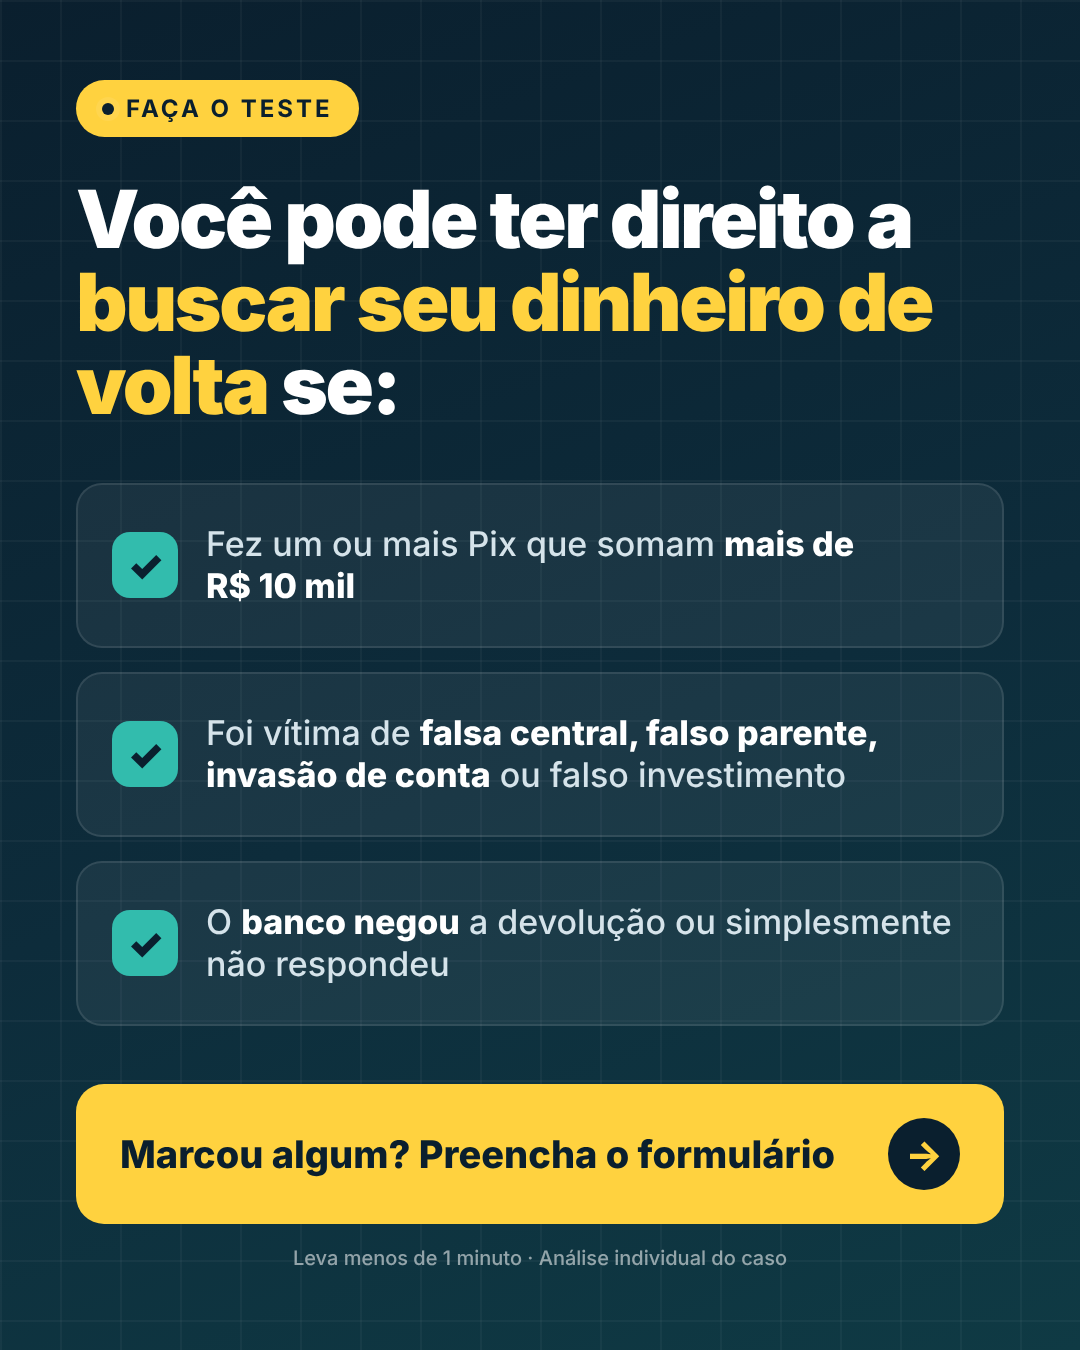
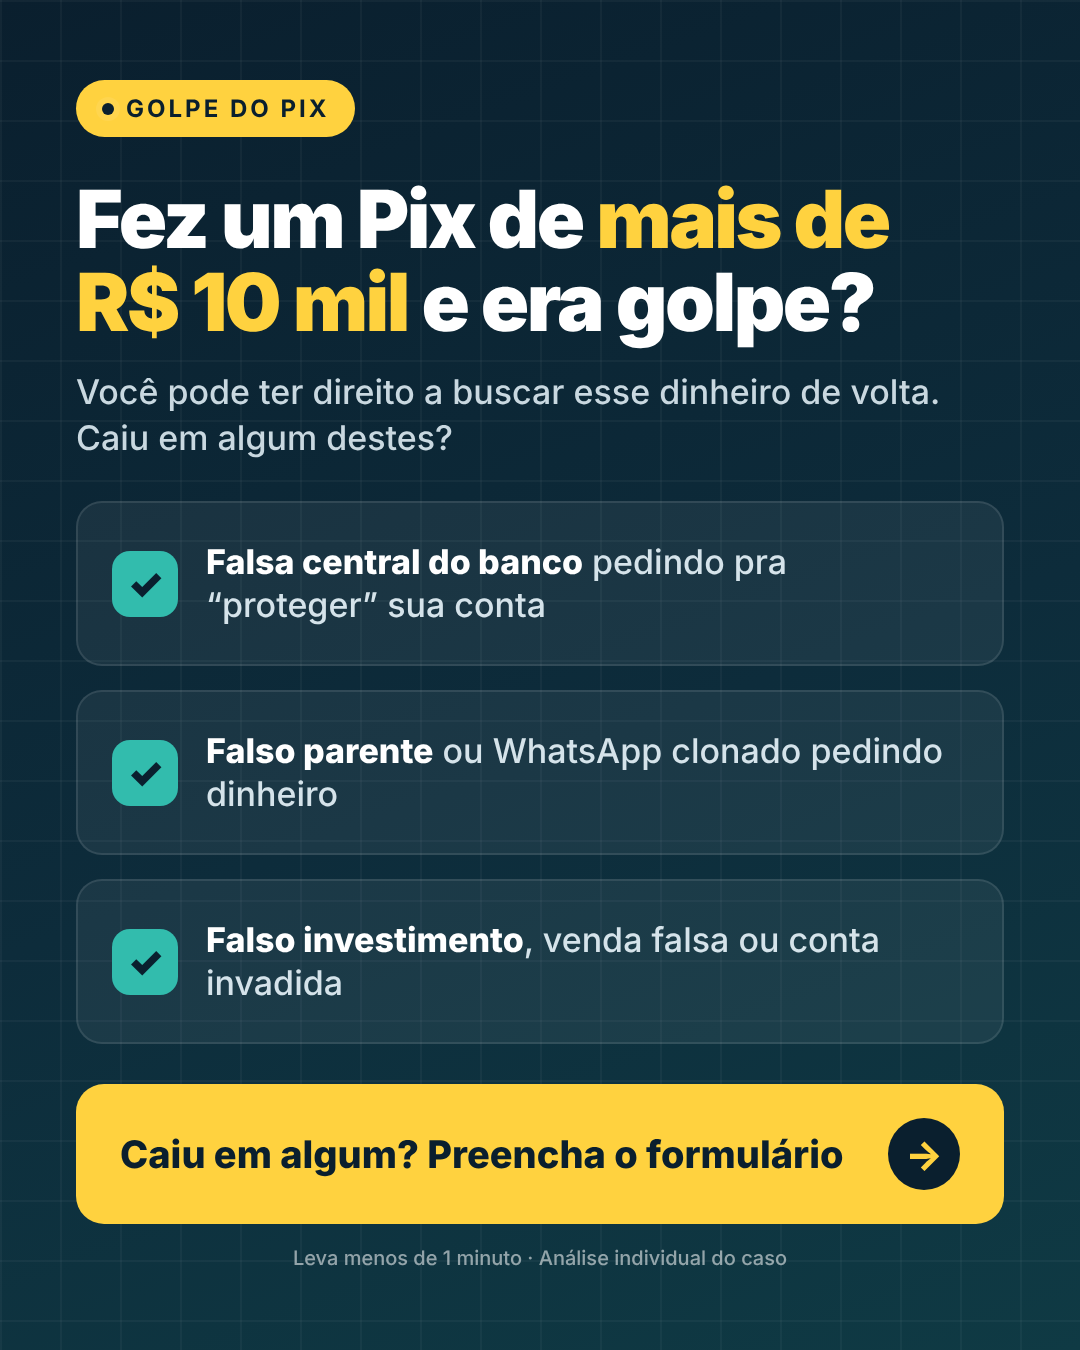
Make all static ad headlines lead with Pix scam over R$ 10k
Claude-Session: https://claude.ai/code/session_01SkfjsfUQNfivQ8njYtiKhj

diff --git a/estaticos-golpe-pix/src/3.html b/estaticos-golpe-pix/src/3.html
@@ -4,7 +4,7 @@ body{background:linear-gradient(160deg,#0a1f2e 0%,#0d2c3b 55%,#0f3a44 100%);colo
 .tag{background:#ffd23f;color:#0a1f2e}
 h1{font-size:80px;line-height:1.04;font-weight:900;letter-spacing:-2.5px;margin-top:40px}
 h1 em{font-style:normal;color:#ffd23f}
-.list{margin-top:56px;display:flex;flex-direction:column;gap:24px}
+.list{margin-top:40px;display:flex;flex-direction:column;gap:24px}
 .it{display:flex;gap:28px;align-items:center;background:rgba(255,255,255,.06);border:2px solid rgba(255,255,255,.1);border-radius:26px;padding:38px 34px}
 .ck{flex:none;width:66px;height:66px;border-radius:18px;background:#32bcad;color:#0a1f2e;display:grid;place-items:center;font-size:40px;font-weight:900}
 .it p{font-size:34px;line-height:1.25;font-weight:500;color:#d5e3ea}
@@ -12,16 +12,17 @@ h1 em{font-style:normal;color:#ffd23f}
 .bottom{margin-top:auto}
 .cta{background:#ffd23f;color:#0a1f2e}
 .cta .arrow{background:#0a1f2e;color:#ffd23f}
-</style></head><body><div class="grid"></div><div class="wrap">
- <div class="tag"><span class="dot"></span>Faça o teste</div>
- <h1>Você pode ter direito a <em>buscar seu dinheiro de volta</em> se:</h1>
+.sub{font-size:34px;line-height:1.35;color:#c9d8e0;margin-top:26px;font-weight:500}</style></head><body><div class="grid"></div><div class="wrap">
+ <div class="tag"><span class="dot"></span>Golpe do Pix</div>
+ <h1>Fez um Pix de <em>mais de R$&nbsp;10&nbsp;mil</em> e era golpe?</h1>
+ <p class="sub">Você pode ter direito a buscar esse dinheiro de volta. Caiu em algum destes?</p>
  <div class="list">
-  <div class="it"><div class="ck">✓</div><p>Fez um ou mais Pix que somam <b>mais de R$&nbsp;10&nbsp;mil</b></p></div>
-  <div class="it"><div class="ck">✓</div><p>Foi vítima de <b>falsa central, falso parente, invasão de conta</b> ou falso investimento</p></div>
-  <div class="it"><div class="ck">✓</div><p>O <b>banco negou</b> a devolução ou simplesmente não respondeu</p></div>
+  <div class="it"><div class="ck">✓</div><p><b>Falsa central do banco</b> pedindo pra “proteger” sua conta</p></div>
+  <div class="it"><div class="ck">✓</div><p><b>Falso parente</b> ou WhatsApp clonado pedindo dinheiro</p></div>
+  <div class="it"><div class="ck">✓</div><p><b>Falso investimento</b>, venda falsa ou conta invadida</p></div>
  </div>
  <div class="bottom">
-  <div class="cta">Marcou algum? Preencha o formulário<span class="arrow">→</span></div>
+  <div class="cta">Caiu em algum? Preencha o formulário<span class="arrow">→</span></div>
   <div class="foot">Leva menos de 1 minuto · Análise individual do caso</div>
  </div>
 </div></body></html>

diff --git a/estaticos-golpe-pix/src/2.html b/estaticos-golpe-pix/src/2.html
@@ -18,13 +18,13 @@ h1 u{text-decoration:none;background:linear-gradient(transparent 62%,#ffd23f 62%
 .cta .arrow{background:#32bcad;color:#0b1a24}
 .foot{color:#0b1a24}
 </style></head><body><div class="wrap">
- <div class="tag"><span class="dot" style="background:#32bcad"></span>Golpe do Pix acima de R$ 10 mil</div>
- <h1>O banco disse que <u>"não pode fazer nada"</u>?</h1>
+ <div class="tag"><span class="dot" style="background:#32bcad"></span>Golpe do Pix</div>
+ <h1>Caiu em um <u style="white-space:nowrap">golpe do Pix</u> de mais de R$&nbsp;10&nbsp;mil?</h1>
  <div class="chat">
   <div class="b me"><span class="who">Você</span>Caí num golpe, fiz um Pix de R$ 22 mil. Preciso de ajuda!</div>
   <div class="b bank no"><span class="who">Banco</span><b>Infelizmente</b> a transação foi autorizada por você. Não há o que fazer.</div>
  </div>
- <div class="turn"><div class="bar"></div><p>Essa resposta <span>não é a palavra final.</span> A lei pode estar do seu lado.</p></div>
+ <div class="turn"><div class="bar"></div><p>O banco negou? <span>Você ainda pode buscar seu dinheiro de volta.</span></p></div>
  <div class="cta">Preencha o formulário<span class="arrow">→</span></div>
  <div class="foot">Leva menos de 1 minuto · Um especialista analisa seu caso</div>
 </div></body></html>

diff --git a/estaticos-golpe-pix/src/4.html b/estaticos-golpe-pix/src/4.html
@@ -13,11 +13,11 @@ h1 .w{background:#fff;color:#e8403a;padding:0 14px;border-radius:12px;box-decora
 .cta{background:#0b1a24;color:#fff}
 .cta .arrow{background:#fff;color:#e8403a}
 </style></head><body><div class="rings"></div><div class="wrap">
- <div class="tag"><span class="dot"></span>Golpe do Pix · acima de R$ 10 mil</div>
+ <div class="tag"><span class="dot"></span>Golpe do Pix</div>
  <div class="clock">00:47<span>:12</span></div>
  <div class="cap">Cada hora conta</div>
- <h1>Caiu no golpe? <span class="w">Não espere</span> o dinheiro sumir de vez.</h1>
- <p class="sub">Quanto antes o caso for analisado, <b>mais caminhos existem</b> para tentar reaver os valores, inclusive junto ao banco.</p>
+ <h1>Perdeu mais de R$&nbsp;10&nbsp;mil em um<br><span class="w" style="white-space:nowrap">golpe do Pix?</span></h1>
+ <p class="sub"><b>Não espere.</b> Quanto antes o caso for analisado, mais caminhos existem para tentar recuperar o seu dinheiro.</p>
  <div class="bottom">
   <div class="cta">Preencha o formulário agora<span class="arrow">→</span></div>
   <div class="foot" style="opacity:.75">Leva menos de 1 minuto · Atendimento 100% online</div>
